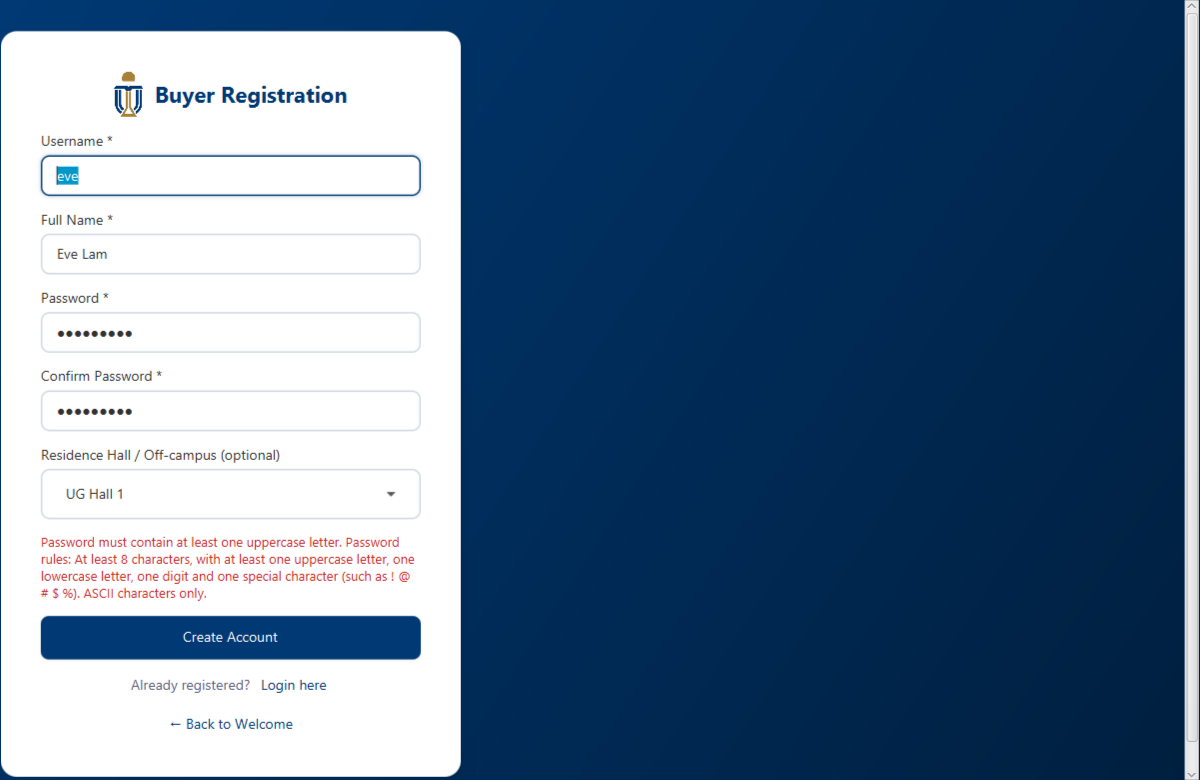
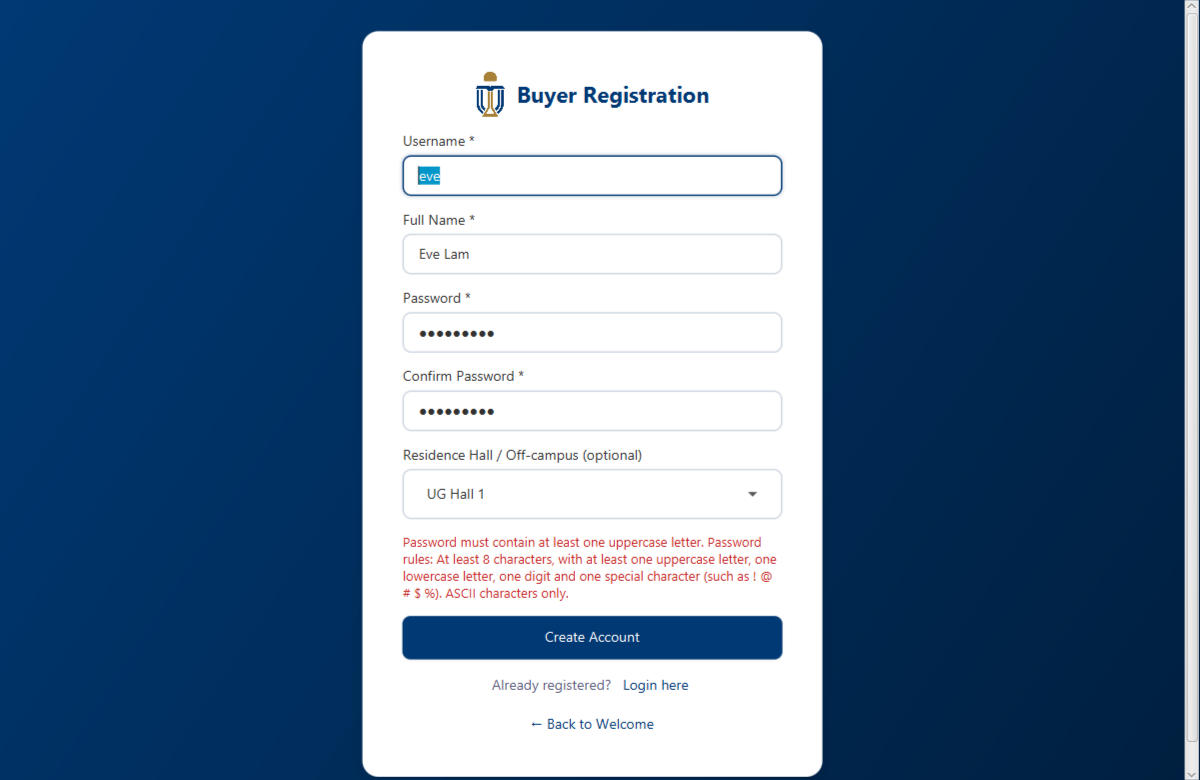
Login and registration screens: centre the registration card (R19), no credentials on screen
- R19: the buyer and seller registration cards sat at the left edge, because the 460-pixel limit
  was on the scroll pane's content; the content now fills the scroll pane and centres the card
- The three login screens no longer show demo or seeded credentials; the admin's username box
  says "Enter username" like the others
- PortalScreensTest: every login and registration card is centred, and no login screen shows a
  password (both failed before the change); OffScreenApp.offCentre measures it
- Regression log R19; walkthrough screenshots retaken

diff --git a/src/test/java/com/hkust/marketplace/testsupport/OffScreenApp.java b/src/test/java/com/hkust/marketplace/testsupport/OffScreenApp.java
@@ -7,6 +7,8 @@ import com.hkust.marketplace.utils.SessionManager;
 import javafx.application.Platform;
 import javafx.beans.InvalidationListener;
 import javafx.collections.ListChangeListener;
+import javafx.geometry.BoundingBox;
+import javafx.geometry.Bounds;
 import javafx.scene.Node;
 import javafx.scene.Parent;
 import javafx.scene.control.ButtonBar;
@@ -16,6 +18,7 @@ import javafx.scene.control.ComboBox;
 import javafx.scene.control.DatePicker;
 import javafx.scene.control.DialogPane;
 import javafx.scene.control.Labeled;
+import javafx.scene.control.ScrollPane;
 import javafx.scene.control.TextInputControl;
 import javafx.scene.image.ImageView;
 import javafx.scene.input.KeyCode;
@@ -292,6 +295,37 @@ public final class OffScreenApp {
                 .filter(node -> node.getStyleClass().contains("listing-card-title") && isShown(node))
                 .map(OffScreenApp::textOf)
                 .toList());
+    }
+
+    /**
+     * How far, in pixels, the middle of the first shown node with this style class is from the
+     * middle of the area it is shown in, across: the visible part of the scroll pane around it (left
+     * of its scroll bar), or else the window. 0 when the node is centred, as the card of a login
+     * screen ("auth-pane") is.
+     */
+    public double offCentre(String styleClass) {
+        return read(() -> {
+            Parent root = root();
+            root.applyCss();
+            root.layout();
+            Node node = all(root).stream()
+                    .filter(shown -> shown.getStyleClass().contains(styleClass) && isShown(shown))
+                    .findFirst()
+                    .orElseThrow(() -> new AssertionError("Nothing on the screen has the style class " + styleClass));
+            Bounds onWindow = node.localToScene(node.getLayoutBounds());
+            return Math.abs(onWindow.getCenterX() - areaShowing(node).getCenterX());
+        });
+    }
+
+    /** In window coordinates: the visible part of the scroll pane the node is in, or else the whole window. */
+    private Bounds areaShowing(Node node) {
+        for (Node around = node.getParent(); around != null; around = around.getParent()) {
+            if (around instanceof ScrollPane scrollPane) {
+                Node viewport = scrollPane.lookup(".viewport");
+                return viewport.localToScene(viewport.getLayoutBounds());
+            }
+        }
+        return new BoundingBox(0, 0, window.getScene().getWidth(), window.getScene().getHeight());
     }
 
     /**

diff --git a/src/test/java/com/hkust/marketplace/controllers/PortalScreensTest.java b/src/test/java/com/hkust/marketplace/controllers/PortalScreensTest.java
@@ -8,6 +8,7 @@ import org.junit.jupiter.api.AfterEach;
 import org.junit.jupiter.api.BeforeAll;
 import org.junit.jupiter.api.Test;
 
+import java.util.LinkedHashMap;
 import java.util.List;
 import java.util.Map;
 import java.util.Set;
@@ -86,6 +87,39 @@ class PortalScreensTest {
 
         assertEquals(LoginResult.WRONG_ACCOUNT_TYPE.getMessage(), app.text("#errorLabel")); // UC2 A3
         assertFalse(SessionManager.isLoggedIn());
+    }
+
+    /**
+     * The card of every login and registration screen is in the middle of the window
+     * (regression log R19: the registration cards sat at the left edge).
+     */
+    @Test
+    void loginAndRegistrationCards_areCentred() {
+        Map<String, Double> offCentre = new LinkedHashMap<>();
+        for (String portal : List.of("Buyer", "Seller")) {
+            app.press("Enter as " + portal);
+            offCentre.put(portal + " login", app.offCentre("auth-pane"));
+            app.press("Register here");
+            offCentre.put(portal + " registration", app.offCentre("auth-pane"));
+            app.reset();
+        }
+        app.press("Enter as Admin");
+        offCentre.put("Admin login", app.offCentre("auth-pane"));
+
+        Map<String, Double> notCentred = new LinkedHashMap<>(offCentre);
+        notCentred.values().removeIf(pixels -> pixels <= 1);
+        assertEquals(Map.of(), notCentred, "pixels off centre");
+    }
+
+    /** No login screen shows a password: the demo accounts are listed in the README, not on the screens. */
+    @Test
+    void loginScreens_showNoPassword() {
+        for (String portal : List.of("Enter as Buyer", "Enter as Seller", "Enter as Admin")) {
+            app.press(portal);
+            assertFalse(app.shows(SeedData.DEMO_PASSWORD), portal);
+            assertFalse(app.shows(SeedData.ADMIN_PASSWORD), portal);
+            app.reset();
+        }
     }
 
     @Test

diff --git a/docs/course-concepts.md b/docs/course-concepts.md
@@ -45,7 +45,7 @@ L15-18 Analysis & Design, L19 Software Quality Assurance, L20 Project Management
 | Black box: thread testing (L13) | A test follows one use-case flow through all the objects it touches, often across roles. | `MyDealsServiceTest.oneDeal_fromOfferThroughAcceptanceToCompletion_acrossThreeUseCases`, `OfferServiceTest.offerThenAcceptance_acrossBothRoles_endsWithAReservedListing`, `ChatServiceTest`, `NotificationBoardFlowTest`, `ReviewServiceTest.oneDeal_fromTheBuyersOfferToItsReview_acrossFourUseCases` and `anItemTheTimerReturned_isOfferedForReview_untilItIsReviewed`, `DealHistoryServiceTest.aPurchase_fromTheBuyersOfferToTheHistory_acrossThreeUseCases` and `anItemTheTimerReturnedLate_isDatedOnItsDueDate_notWhenTheTimerRan`, `ReportServiceTest.aReport_fromTheDetailScreen_toTheAdminsBoard_andTheAdminsViewOfTheListing` (from the buyer to the admin) |
 | Black box: state-based testing (L13) | The object is first put into each state through its state machine, then the event is applied and the resulting state checked. | `ListingStateMachineTest`, `OfferServiceTest.listingThatIsNotLive_acceptsNoOffer`, `MyDealsServiceTest` (a deal in each of its five states, with "mark complete" and "return" applied to each); `ReviewServiceTest` (a deal in each state, then "review": allowed only when completed and not reviewed yet); `OfferActionTest` (each kind of offer in each state, with the actions offered to the seller and to the buyer); `DealHistoryServiceTest` (each kind of deal in each state: only a completed one is in the history, whatever its listing's state becomes later) and `HistoryEntryTest`; `ReportServiceTest` (a listing in each state, with and without the buyer's deal: it can be reported exactly when UC8 opens it); `HistoryAndNotificationsScreensTest.theDot_…` (the unread dot's number: what raises it, what lowers it, what leaves it unchanged); `ChatScreensTest` (the chat screen with no chat open, with the list shown, and with it hidden) |
 | Integration testing: sandwich, critical subsystems (L14) | The shared middle is tested bottom-up with drivers while the portals are built on top. The critical parts (deal lifecycle, concurrency, saving) have their own tests. | `README.md`, "How We Build and Test"; `OfferServiceTest.claimsSubmittedAtTheSameMoment_onlyTheFirstSucceeds`, `ReviewServiceTest.reviewsOfOneDealSubmittedAtTheSameMoment_onlyTheFirstIsRecorded`, `ReportServiceTest.reportsOfOneListingSubmittedAtTheSameMoment_onlyTheFirstIsRecorded`; a contract test between the buyer-built chat and the seller's service: `OfferActionTest.everyAnswerTheChatOffers_isOneTheSellersServiceAllows_andNoOther`; `DealHistoryServiceTest.theHistoryReadWhileTheTimerReturnsItems_seesAllOfThemReturnedOrNone` (the timer and the screens in one store). All of them run their threads through `testsupport/SameMoment`, which stops them even when a test fails |
-| Regression testing (L13-14) | Every bug is reproduced, recorded with its input and correct output, and kept as a test. All tests run on every build. | `docs/regression-log.md` (R1-R15; R8 to R11 and R15 were reproduced as failing tests before the fix, R9 from a recorded acceptance-test run; R12-R14 are the admin portal's) |
+| Regression testing (L13-14) | Every bug is reproduced, recorded with its input and correct output, and kept as a test. All tests run on every build. | `docs/regression-log.md` (each entry names its test; R8 to R11, R15 and R19 were reproduced as failing tests before the fix, R9 from a recorded acceptance-test run; R12-R14 are the admin portal's, R18 the seller portal's) |
 | System and acceptance testing (L14) | System tests run the real screens in a window nobody sees, on the demo data in a temporary folder: a demo user of each portal logs in on the welcome screen and opens every page, which must cut no button or label short at the app's window size, and each buyer use case runs through its screens with its alternative flows, forms filled in and submitted. Acceptance tests are manual scenarios through the screens, one per flow of each use case. | `PortalScreensTest`, `controllers/buyer/*ScreensTest` (`testsupport/OffScreenApp`, `ScreenData`); `docs/acceptance-tests.md` |
 
 ## Process

diff --git a/docs/regression-log.md b/docs/regression-log.md
@@ -205,6 +205,19 @@ The test keeps the bug from coming back. Every entry below names its test, and i
 
 ---
 
+## R19: The registration screens showed their form at the left edge of the window
+
+- **Area / owner:** shared UI: the buyer's registration screen (Gordon) and the seller's (Daniel's), changed together with Gordon's go-ahead for the UI of all three portals. The layout came with the course skeleton (0d1c58a).
+- **Found:** 2026-11-26, in the walkthrough screenshots (`docs/walkthrough.md`, shots 02 and 03). **Fixed:** 2026-11-26.
+- **Input:** start the app at its default size (1200 × 780); Enter as Buyer, then Register here. The same from Enter as Seller.
+- **Correct output:** the form's card in the middle of the window, as on the three login screens.
+- **Output before the fix:** the card against the left edge, its middle 369 px left of the window's middle (the seller's 362 px, beside its scroll bar), with empty background on the right.
+- **Cause:** the 460-pixel width limit sat on the scroll pane's content instead of on the card. A scroll pane puts its content at the top left, so the 460-pixel content stayed there.
+- **Fix:** the scroll pane's content now fills it (`fitToWidth`, `fitToHeight`) and centres the card, which keeps the 460-pixel limit itself. The content's `minHeight` is USE_PREF_SIZE, so a short window still scrolls the form instead of squeezing it (`BuyerRegisterView.fxml`, `SellerRegisterView.fxml`).
+- **Test:** `PortalScreensTest.loginAndRegistrationCards_areCentred` (it measures with `OffScreenApp.offCentre`)
+
+---
+
 ## Tooling notes (not code bugs, so no test)
 
 ### T1: `mvnw test` passed on outdated compiled tests

diff --git a/docs/supplementary-notes.md b/docs/supplementary-notes.md
@@ -92,7 +92,7 @@ UC12 asks for a timer that checks at least once a second. Ours checks every 0.5 
   test classes).
 - **Planted bugs**: for three use cases we planted deliberate bugs (three each) to check that the tests catch them.
   They all did.
-- **Regression log**: 16 bugs so far, each with its input, the wrong and the right output, and a test that failed
+- **Regression log**: 17 bugs so far, each with its input, the wrong and the right output, and a test that failed
   before the fix.
 - **173 acceptance scenarios** for system testing, written from the use cases.
 
@@ -215,7 +215,7 @@ partitions and boundary values for inputs (prices, borrow periods, dates), state
 basis-path tests for the longer methods, and thread tests for the actions that can collide. The tests run against a
 temporary data folder and a simulated clock, so they are fast and give the same result every time.
 
-**Regression and acceptance testing.** The regression log records 16 bugs, each with the input that reproduces it,
+**Regression and acceptance testing.** The regression log records 17 bugs, each with the input that reproduces it,
 the wrong and the right output, and the test that failed before the fix. The 173 acceptance scenarios cover each use
 case's basic flow, each alternative flow and each special requirement that a user can see; their results are
 recorded in the scenarios' Result column.

diff --git a/docs/walkthrough.md b/docs/walkthrough.md
@@ -57,8 +57,7 @@ Demo accounts: buyers `alice` and `bob`; sellers `charlie` and `diana` (password
 ### 1.4 Buyer login (UC2)
 
 - **Input:** on the buyer login, username `alice` and password `Demo@1234`. Login.
-- **Output:** the buyer portal opens on Browse Marketplace (next step). Under the form, the login screen shows the
-  demo credentials.
+- **Output:** the buyer portal opens on Browse Marketplace (next step).
 - **Checked by:** `BuyerAccountScreensTest`, `AuthServiceTest`.
 
 ![Buyer login form filled in](screenshots/walkthrough/04-buyer-login.png)
